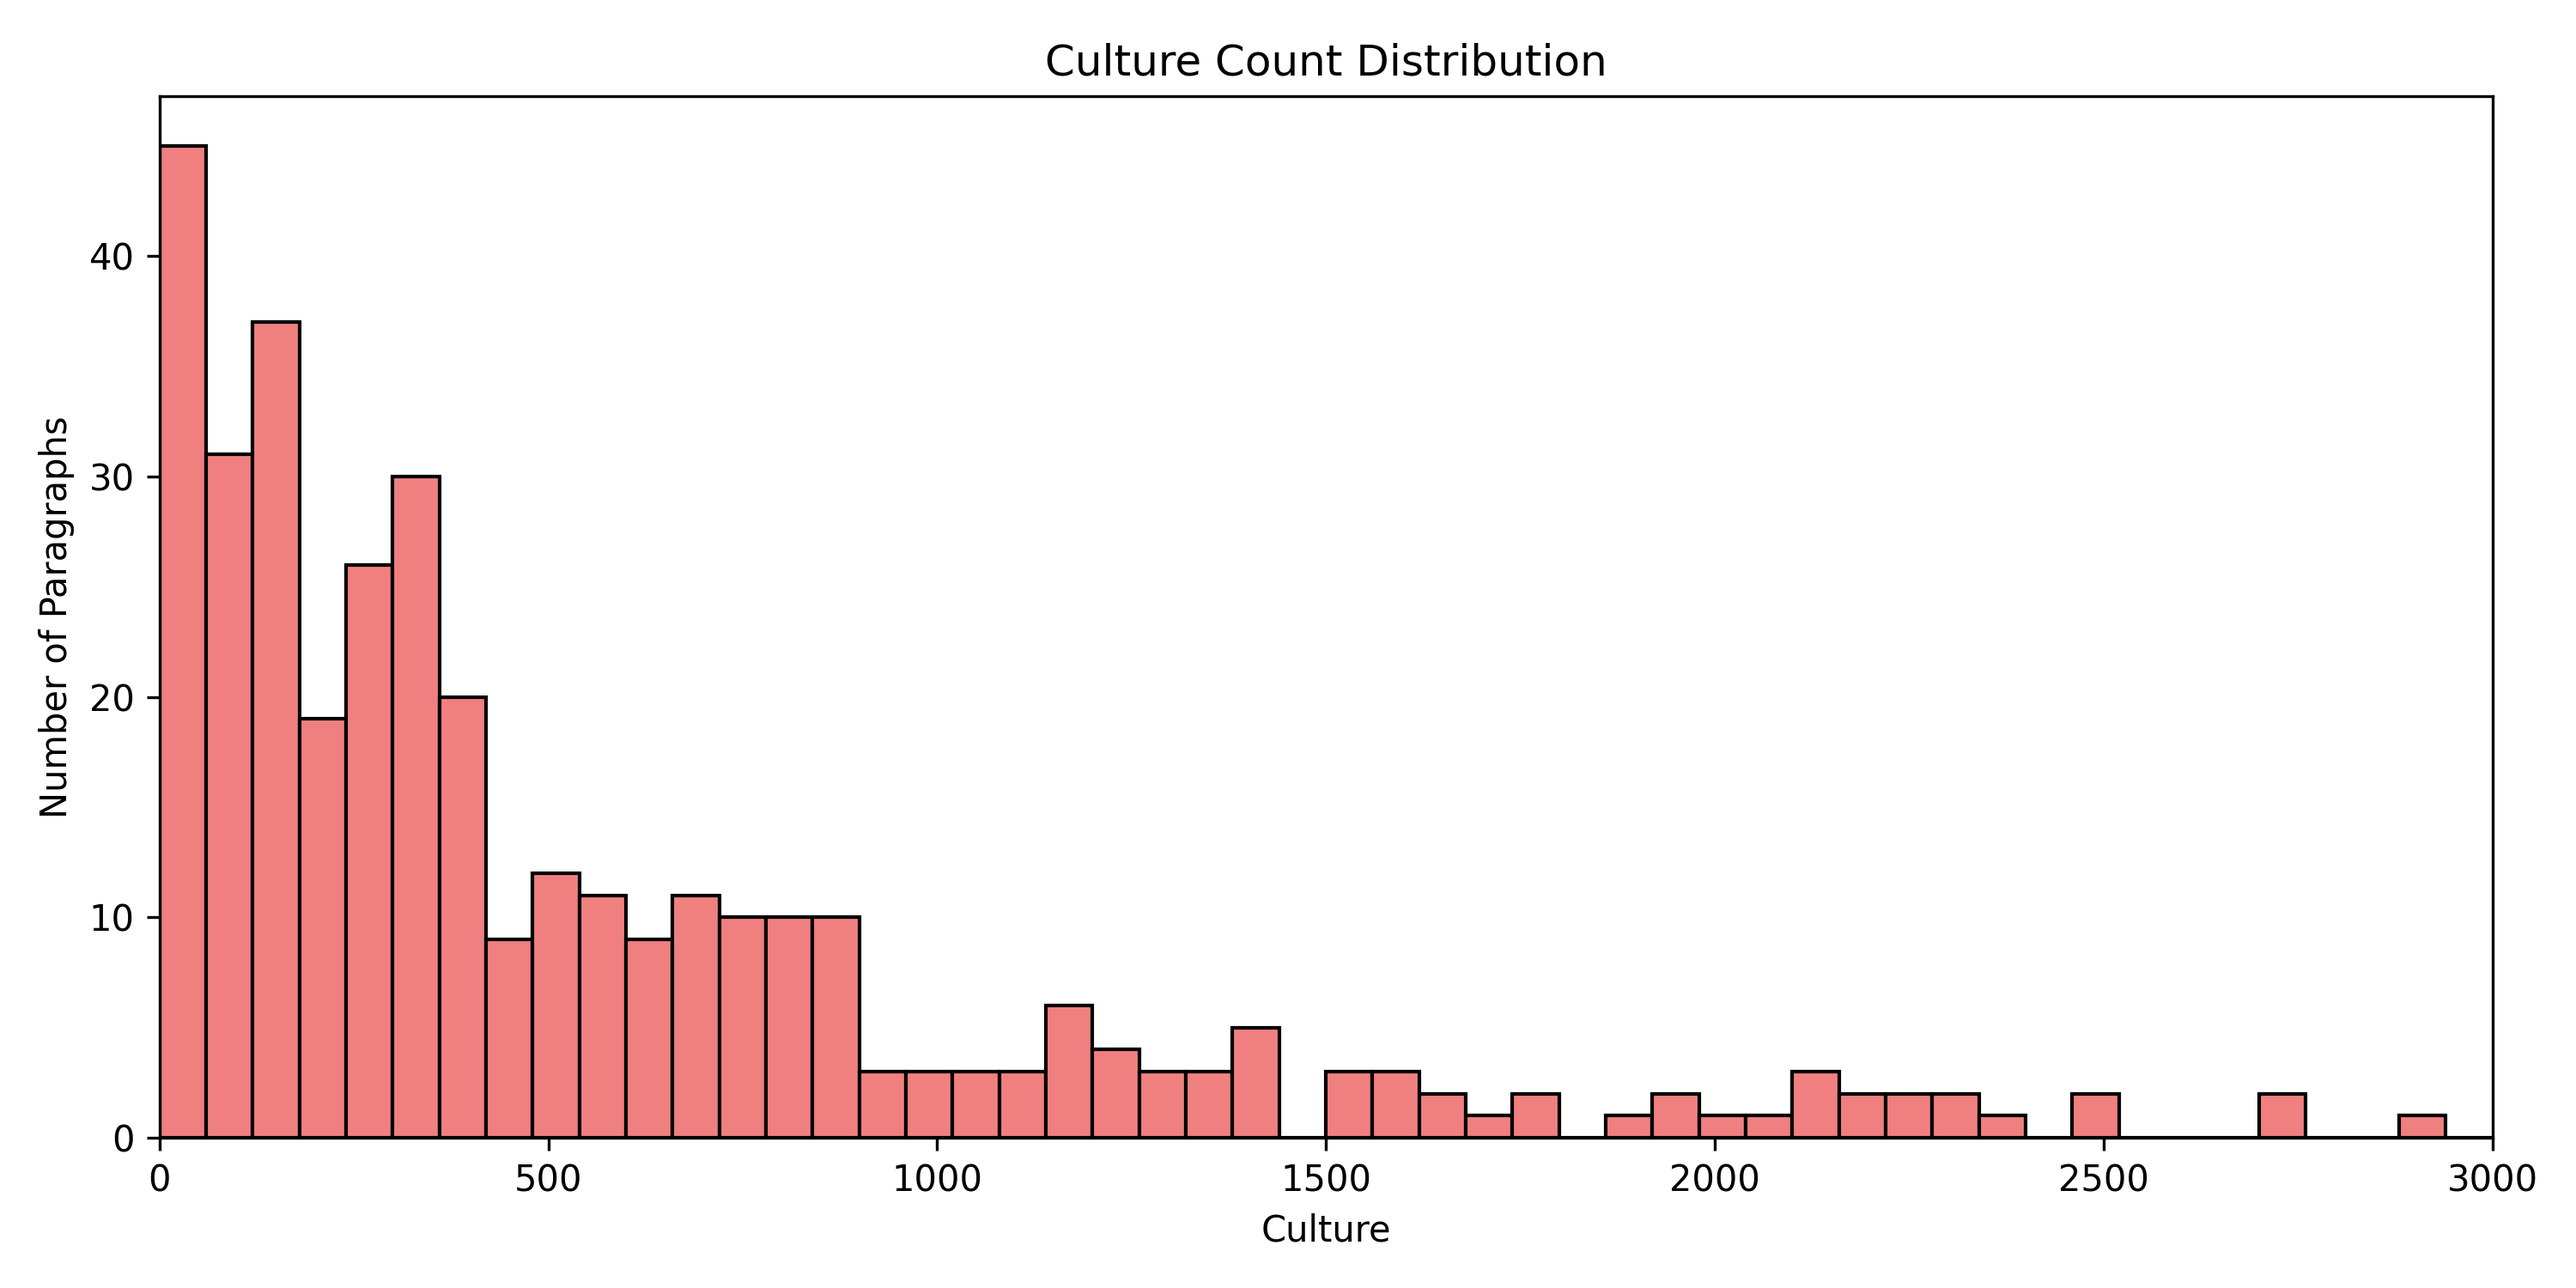
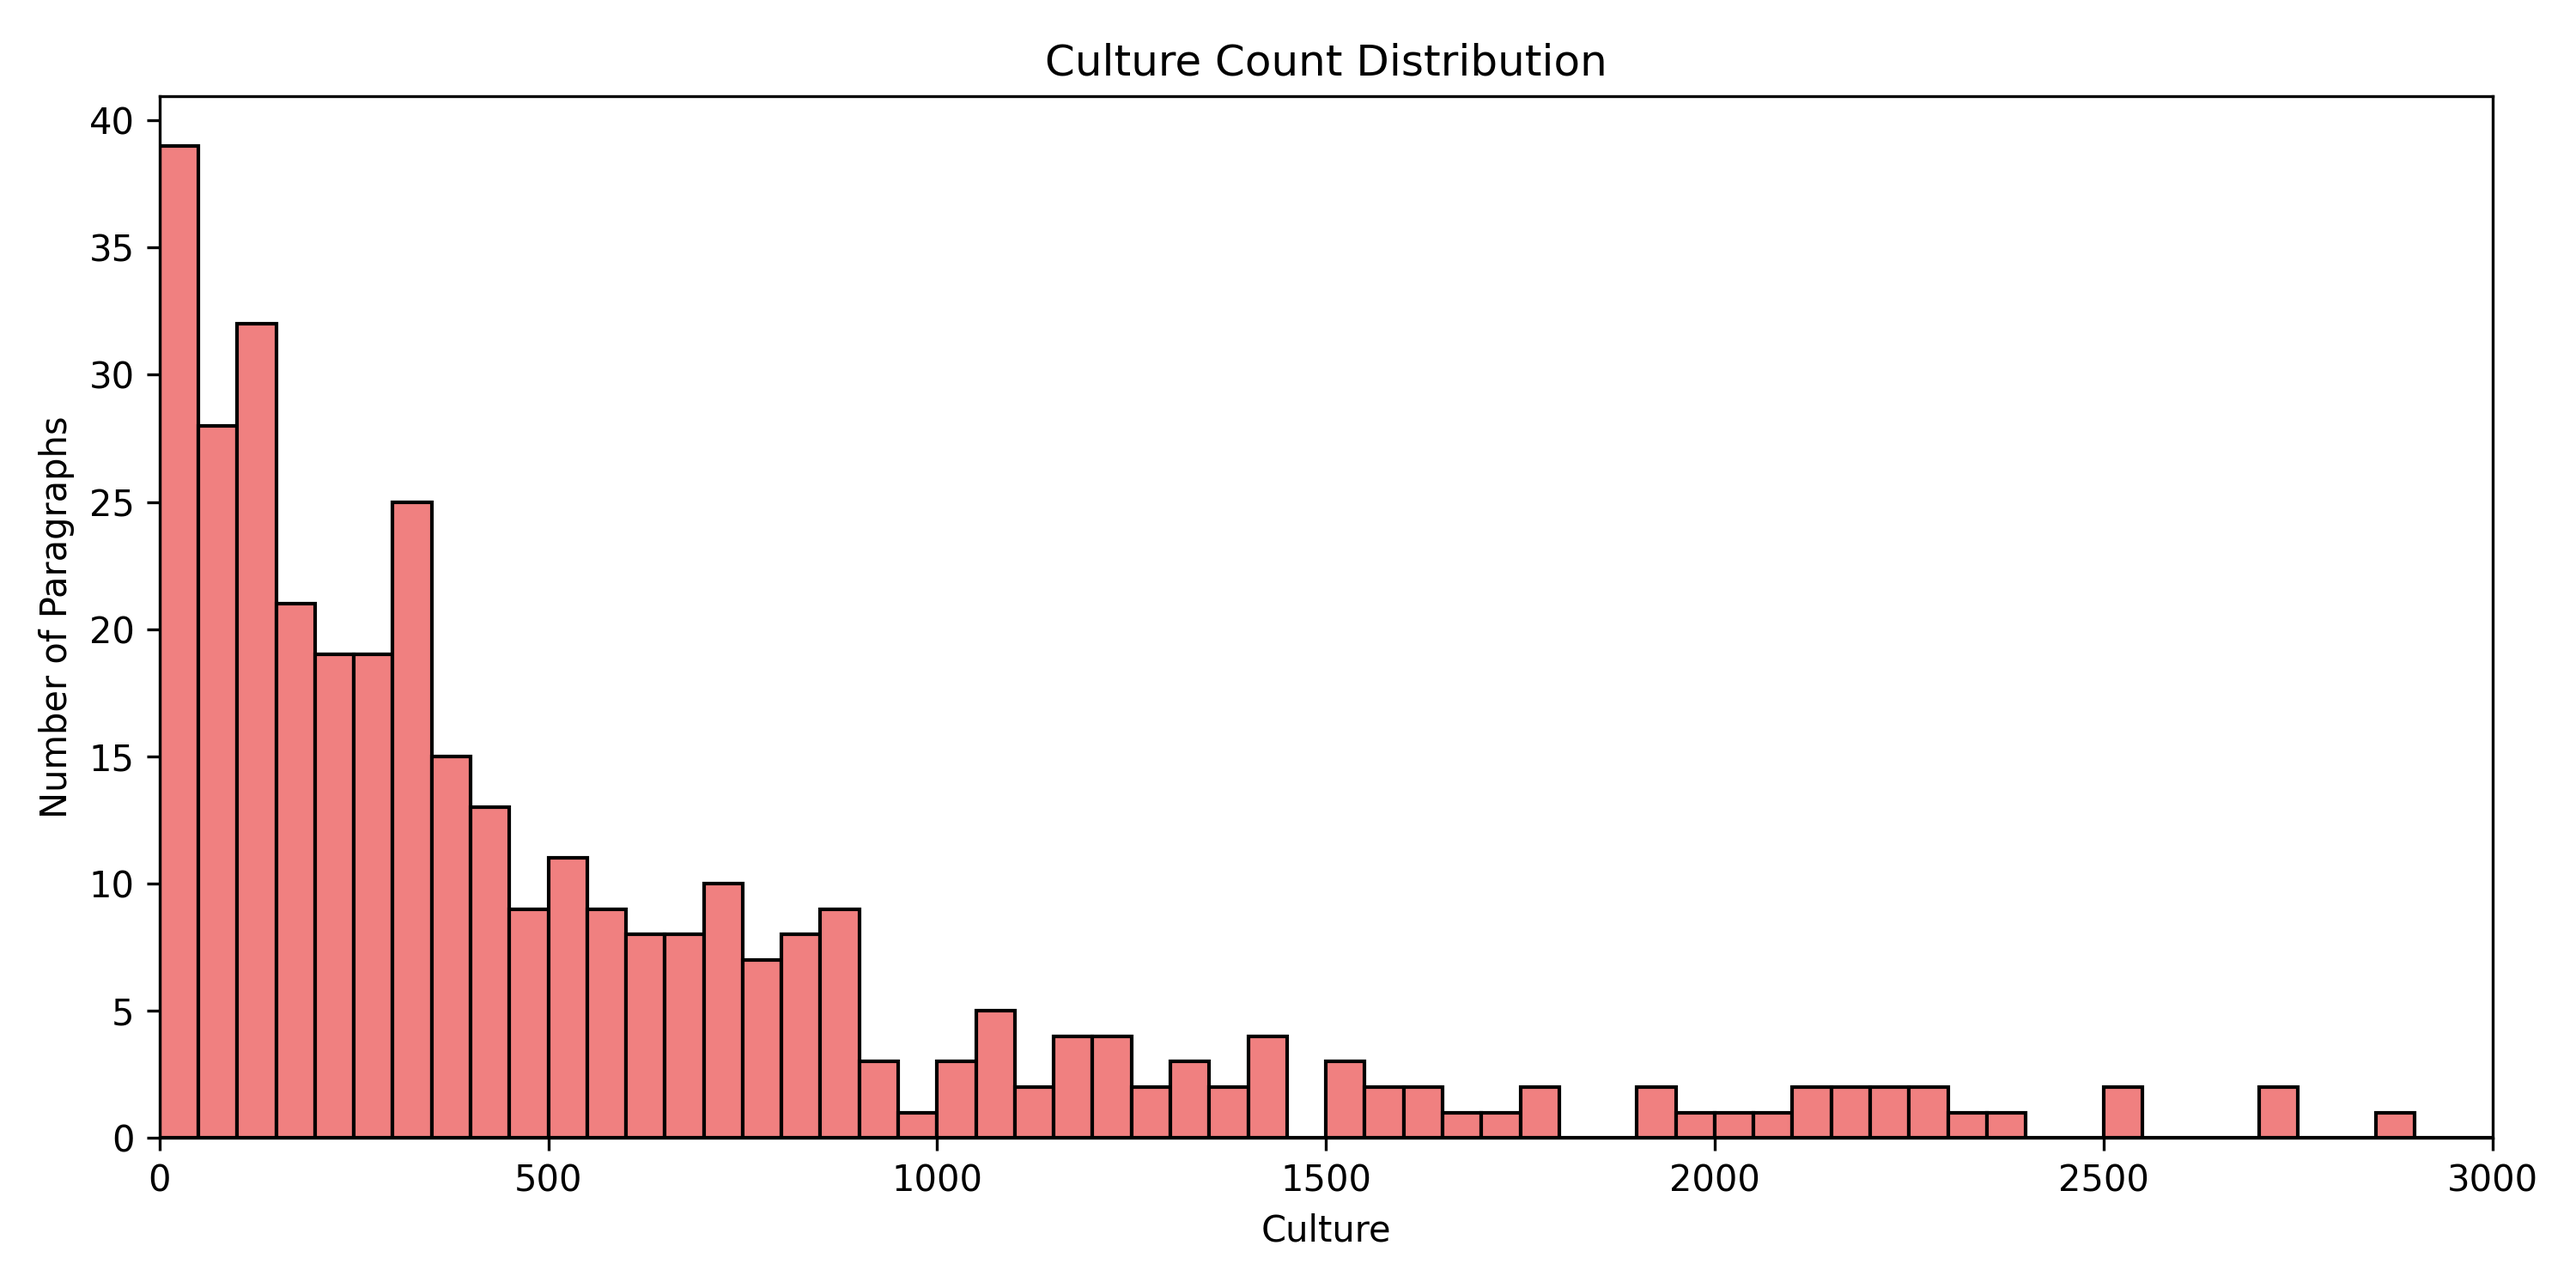
added pie chart

Changed region(s): [[0.031, 0.1227, 0.837, 0.8893], [0.868, 0.828, 0.961, 0.8893], [0.031, 0.092, 0.062, 0.1227]]

diff --git a/code/dataframe_high_level_metrics.py b/code/dataframe_high_level_metrics.py
@@ -3,6 +3,7 @@ import re
 import matplotlib.pyplot as plt
 import numpy as np
 import seaborn as sns
+import math
 
 output_path = "C:/Users/aidan/Downloads/updated_output_11s.csv"
 export_dir = "C:/Users/aidan/OneDrive/Documents/GitHub/femaledeities/plots_and_stats/"  # Ensure trailing slash
@@ -101,7 +102,7 @@ plt.savefig(f"{export_dir}Culture_histogram.png", dpi=300)
 plt.close()
 
 max_bin = 3000  # Upper x-limit
-num_bins = 50  # Number of bins
+num_bins = 60  # Number of bins
 bin_edges = np.linspace(0, max_bin, num_bins + 1)  # Creates evenly spaced bin edges
 
 # Additional Culture histogram with x-axis limited to 0-3000
@@ -154,6 +155,35 @@ plt.legend(title="DocType", bbox_to_anchor=(1.05, 1), loc="upper left")  # Move 
 plt.tight_layout()
 plt.savefig(f"{export_dir}doc_type_by_region_bar.png", dpi=300)
 plt.close()
+
+
+# Get unique regions
+regions = doc_type_by_region["Region"].unique()
+num_regions = len(regions)
+
+# Set up grid layout (e.g., 3x3, 4x4 depending on region count)
+cols = 4  # Adjust for aesthetics
+rows = math.ceil(num_regions / cols)
+
+fig, axes = plt.subplots(rows, cols, figsize=(cols * 9, rows * 9))
+axes = axes.flatten()  # Flatten to 1D array for easy iteration
+
+# Generate pie charts for each region
+for i, region in enumerate(regions):
+    subset = doc_type_by_region[doc_type_by_region["Region"] == region]
+    
+    # Only plot if there's more than one category
+    if len(subset) > 1:
+        axes[i].pie(subset["Count"], labels=subset["DocType"], autopct="%1.1f%%", colors=plt.cm.Paired.colors)
+        axes[i].set_title(region)
+    else:
+        axes[i].axis("off")  # Hide empty subplots
+
+# Adjust layout and save
+plt.tight_layout()
+plt.savefig(f"{export_dir}doc_type_pie_all_regions.png", dpi=300)
+plt.close()
+
 
 
 print("Tables and charts saved as PNG images in:", export_dir)

diff --git a/README.md b/README.md
@@ -69,7 +69,7 @@ The file "qrySummary_eHRAF_WorldCultures_Jan2024" is manually downloaded from th
 ### 6. `dataframe_high_level_metrics` - **Creating plots and tables summarizing dataframe**
 - **Purpose**: To summarize high-level metrics and interesting preliminary statistics of the dataframe
 - **Key Functions**: Create 8 tables and 8 plots showing distribution of key aspects of the dataframe, such as Region, Culture, Substinence, and Keyword distribution.
-- **Dependencies**: pandas, re, matplotlib, numpy, seaborn
+- **Dependencies**: pandas, re, matplotlib, numpy, seaborn, math
 - **Output**: 8 tables and 8 plots - 7 bar charts, 1 histogram.
 
 ## **How to Run**: 
